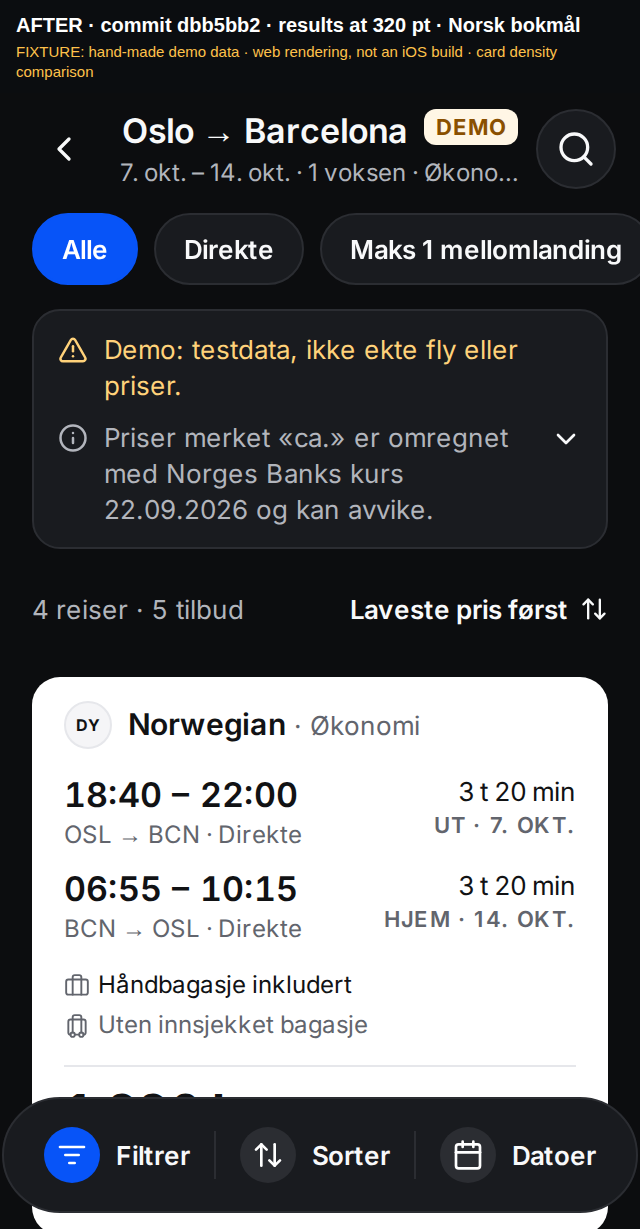
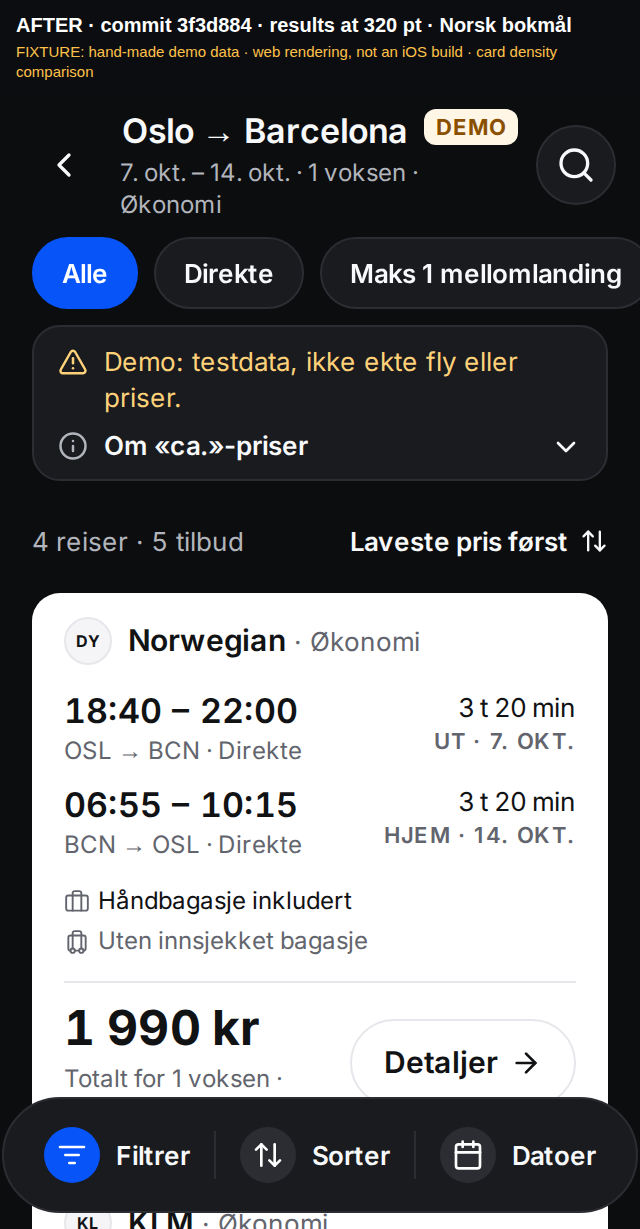
iOS app evidence: correct the 320 pt claim; density and small-screen measurements for 0271bb6 → dbb5bb2 → 3f3d884
Claude-Session: https://claude.ai/code/session_01TegeEr6f4CShJWuL7MGYUr

diff --git a/apps/mobile/docs/evidence/MANIFEST.md b/apps/mobile/docs/evidence/MANIFEST.md
@@ -103,22 +103,34 @@ They will be added as a new "after" set once pushed.
 Each image is 786×1809 px: a 2× capture of a 393×852 viewport plus the
 caption bar.
 
-## Result-card density (0271bb6 → dbb5bb2)
+## Result-card density and small screens (0271bb6 → dbb5bb2 → 3f3d884)
 
-Same harness and fixture. The first card is offer `dy_eve`. Heights are
-in points at the viewport size. "Next card visible" is how much of the
-second journey shows above the floating Filter/Sort/Dates bar before
-scrolling.
+Same harness and fixture. The first card is offer `dy_eve`. Values are in
+points at the viewport size. "Bar" is the top edge of the floating
+Filter/Sort/Dates bar: anything below it is covered until you scroll.
 
-| Viewport | Language | Card height before → after | Next card visible before → after |
-|---|---|---|---|
-| 393×852 | en | 359 → 243 | 35% → 100% (start of a third) |
-| 320×568 | en | 359 → 243 | 0% → 0%; the first card now fits |
-| 320×568 | nb | 397 → 279 | 0% → 0%; the first card now fits |
+| Viewport, language | Commit | First card top → bottom | Details button bottom | Bar top | Total and Details clear of the bar? |
+|---|---|---|---|---|---|
+| 393×852, en | 0271bb6 | 274 → 633 (359 tall) | – | 786 | yes; next card 35% visible |
+| 393×852, en | dbb5bb2 | 274 → 517 (243 tall) | 491 | 786 | yes; next card 100% visible |
+| 393×852, en | 3f3d884 | 216 → 459 (243 tall) | 433 | 786 | yes; next card 100% visible |
+| 320×568, en | dbb5bb2 | 310 → 553 | 527 | 502 | **no** |
+| 320×568, en | 3f3d884 | 234 → 477 | 451 | 502 | yes, the whole card |
+| 320×568, nb | dbb5bb2 | 292 → 571 | 537 | 502 | **no** |
+| 320×568, nb | 3f3d884 | 250 → 529 | 495 | 502 | yes; the second line of "Totalt for 1 voksen · Tur-retur" scrolls into view |
 
-At 320 pt the header, filter chips and the demo/FX notices take the top
-half of the screen. They are not shortened, because the demo warning must
-stay visible.
+**Correction.** The earlier version of this section said that at 320 pt
+"the first card now fits" (dbb5bb2). That was wrong: the floating bar
+covered its total and Details (Codex's review). 3f3d884 fixes it:
+- When every price was converted, the FX explanation starts collapsed
+  behind a labelled, accessible "Om «ca.»-priser" / 'About "approx."
+  prices' disclosure. Each affected card still shows "approx." and the
+  Norges Bank rate and date.
+- Slightly tighter spacing in the header rows.
+- The subtitle may wrap instead of being cut off.
 
-Files: `density-before-393-en.png`, `density-after-393-en.png`,
-`density-before-320-nb.png`, `density-after-320-nb.png`.
+The demo warning is not shortened or hidden.
+
+Files: `density-before-393-en.png` and `density-before-320-nb.png`
+(0271bb6); `density-after-393-en.png`, `density-after-320-nb.png` and
+`density-after-320-en.png` (3f3d884).
